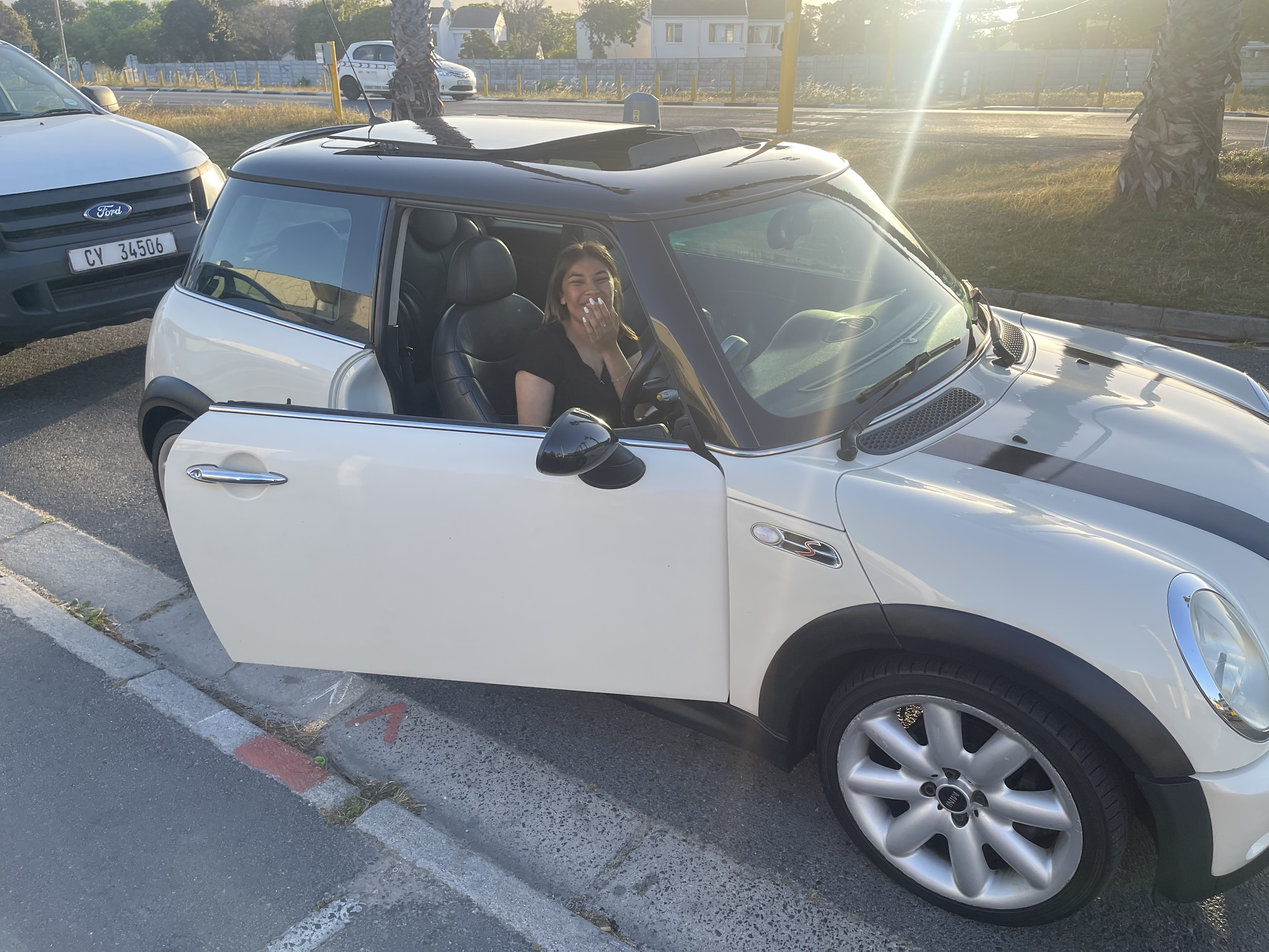
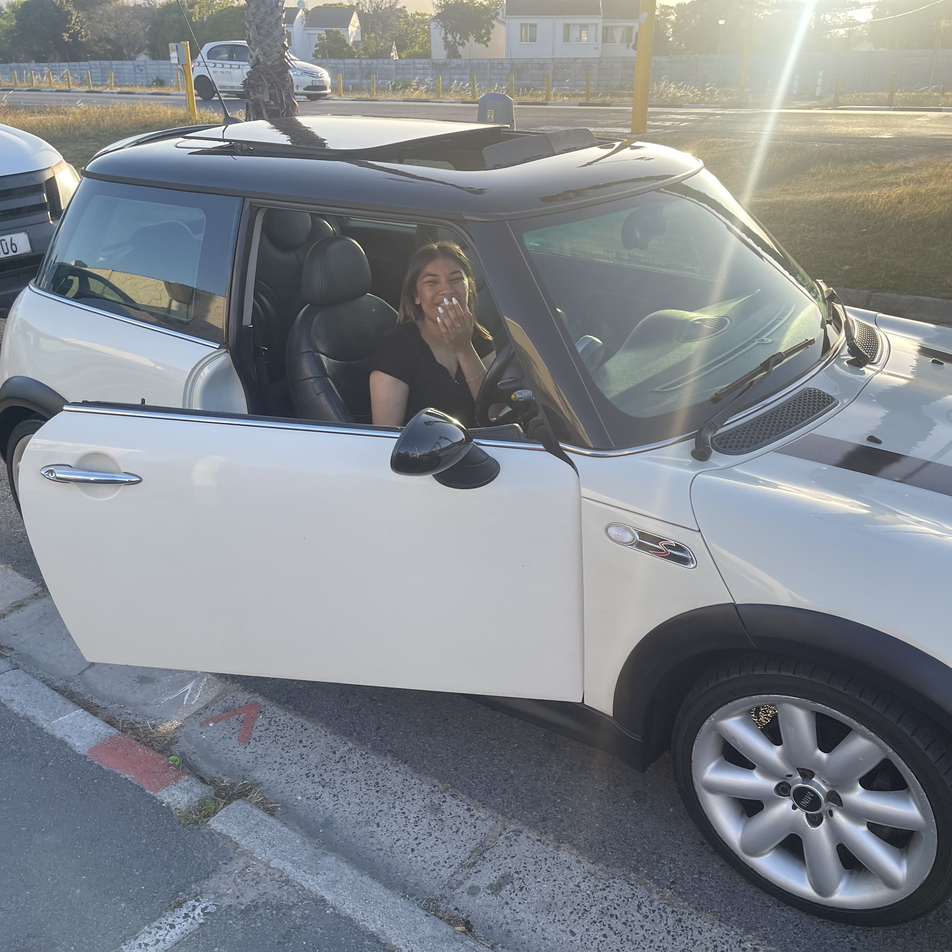
project

diff --git a/about.html b/about.html
@@ -90,51 +90,6 @@
 
     <!-- content -->
     <h1><b>About Me</b></h1>
-
-    <!-- <section class="about-me" style="padding: 0px 0px 0px 0px">
-      <hr
-        style="
-          color: rgb(0, 0, 0);
-          height: 5px;
-          width: 75%;
-          border-width: 0;
-          background-color: rgb(0, 0, 0);
-          margin-left: auto;
-          margin-right: auto;
-        "
-      />
-      <p style="text-align: center; color: rgb(0, 0, 0)">
-        Lorem, ipsum dolor sit amet consectetur adipisicing elit. At hic magni
-        accusantium iure accusamus vero officiis aut,<br />
-        debitis nulla et corporis maiores minima libero labore cum saepe veniam
-        eveniet? At!<br />
-        Lorem, ipsum dolor sit amet consectetur adipisicing elit. Sed, sequi.
-        Nisi perspiciatis placeat obcaecati, quisquam<br />
-        delectus pariatur repellendus consequuntur voluptate explicabo sequi
-        perferendis deserunt cumque distinctio numquam.<br />
-        Iure, quae doloremque.<br />
-        Lorem ipsum, dolor sit amet consectetur adipisicing elit. Modi
-        laudantium, pariatur facilis dolore ad non eos quibusdam<br />
-        nesciunt, expedita iste iure quis perspiciatis similique dicta
-        temporibus magni, quia minus eum.<br />
-      </p>
-      <hr
-        style="
-          color: rgb(0, 0, 0);
-          height: 5px;
-          width: 75%;
-          background-color: rgb(0, 0, 0);
-          margin-left: auto;
-          margin-right: auto;
-        "
-      />
-      <img
-        src="./images/IMG_0590.jpg"
-        width="350px"
-        height="300px"
-        style="border-radius: 75%"
-      />
-    </section> -->
     <section>
       <div class="container">
         <div class="row">
@@ -194,9 +149,27 @@
     <section>
       <div class="grid-container" style="padding-top: 3%; padding-bottom: 5%">
         <div class="item1">Some of My Hobbies</div>
-        <div class="item2">info</div>
-        <div class="item3">info</div>
-        <div class="item4">Right</div>
+        <div class="item2">
+          <img
+            src="./images/driving.jpeg"
+            style="width: 200px; height: 200px; border-radius: 25px"
+          />
+          <h3>Driving</h3>
+        </div>
+        <div class="item3">
+          <img
+            src="./images/family.jpeg"
+            style="width: 200px; height: 200px; border-radius: 25px"
+          />
+          <h3>Spending time with family</h3>
+        </div>
+        <div class="item4">
+          <img
+            src="./images/outdoors.jpeg"
+            style="width: 200px; height: 200px; border-radius: 25px"
+          />
+          <h3>Being outdoors</h3>
+        </div>
       </div>
     </section>
     <!-- end content -->
@@ -212,13 +185,13 @@
 
           <ul>
             <li>
-              <a href="#">
-                <i class="fa-brands fa-twitter fa-2x"></i>
+              <a href="https://instagram.com/jia.daniels?igshid=YmMyMTA2M2Y=">
+                <i class="fa-brands fa-instagram fa-2x"></i>
               </a>
             </li>
             <li>
-              <a href="#">
-                <i class="fa-brands fa-instagram fa-2x"></i>
+              <a href="https://www.facebook.com/jia.daniels.9">
+                <i class="fa-brands fa-facebook fa-2x"></i>
               </a>
             </li>
             <li>
